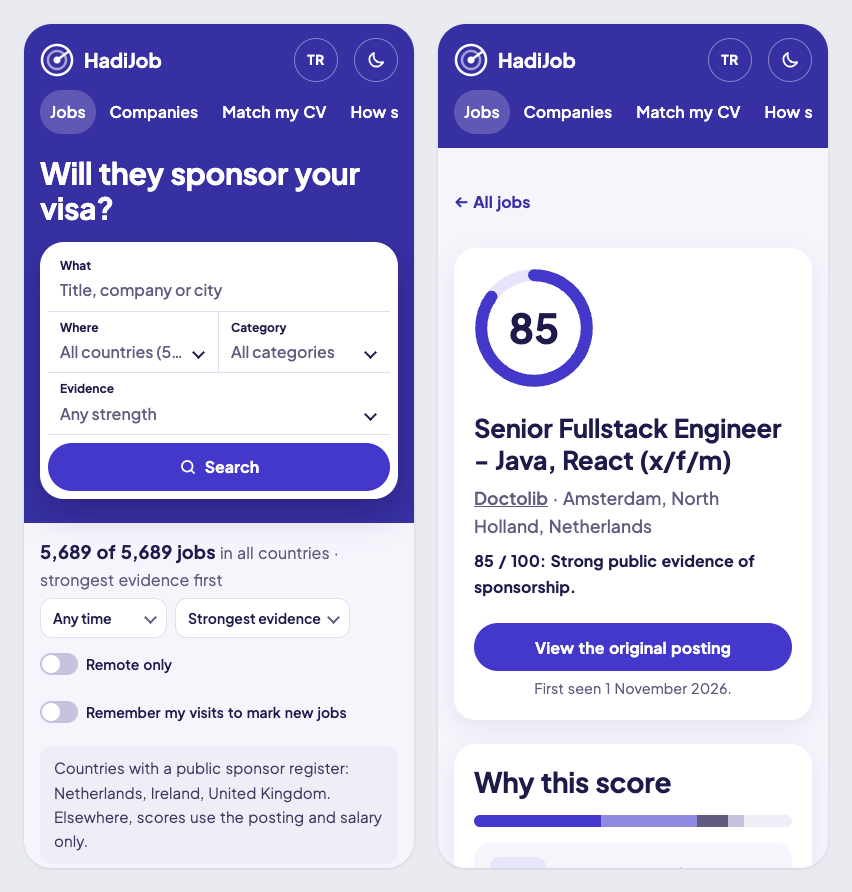
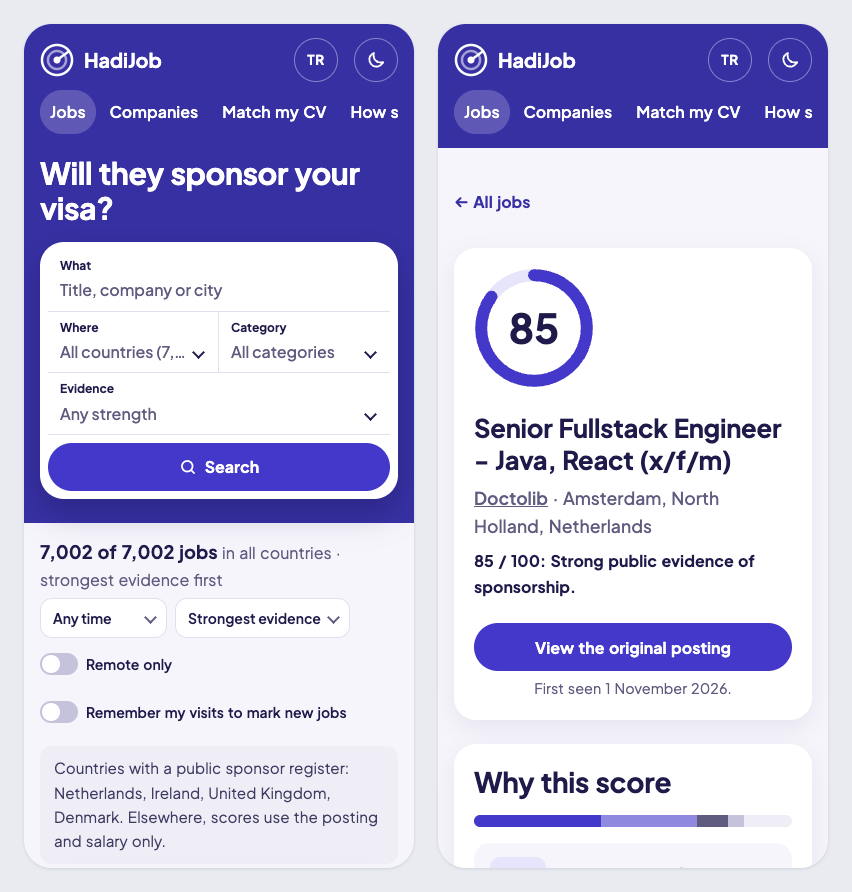
docs: screenshots with today's data

Changed region(s): [[0.061, 0.9081, 0.4577, 0.9686], [0.0305, 0.6054, 0.3967, 0.6357]]

diff --git a/README.md b/README.md
@@ -15,7 +15,7 @@ Free, no sign-up, in English and Turkish.
 
 <picture>
   <source media="(prefers-color-scheme: dark)" srcset=".github/assets/home-dark.png">
-  <img src=".github/assets/home.png" alt="HadiJob search: 5,689 jobs in 21 countries, each with a sponsorship score and three plain-language reasons" width="820">
+  <img src=".github/assets/home.png" alt="HadiJob search: 7,002 jobs in 21 countries, each with a sponsorship score and three plain-language reasons" width="820">
 </picture>
 
 **7,002 jobs** · **21 countries + Europe-wide remote** · **224 employers** · **4 government sponsor registers** · **updated twice a day**
